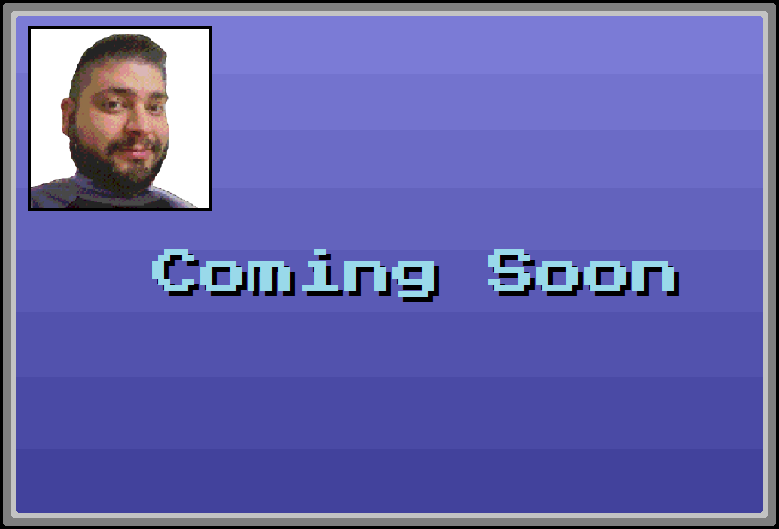
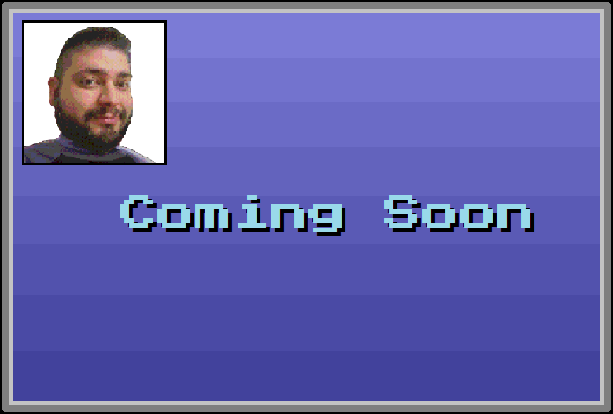
add several images and javascript code to show or hide images.

diff --git a/index.html b/index.html
@@ -11,8 +11,8 @@
 <body>
     <div id="page-container">
         <header>
-            <button type="button" class="menu" onclick="homefunction()">Home</button>
             <button type="button" class="menu" onclick="biofunction()">Bio</button>
+            <button type="button" class="menu" onclick="skillsfunction()">Skills</button>
             <button type="button" class="menu" onclick="projectsfunction()">Projects</button>
             <button type="button" class="menu">Resume</button>
         </header>
@@ -22,11 +22,16 @@
                     ― Stephen Hawking</h1>
         </main> 
             <div class="content">
-                <img src="assets/characterbio2.png" class="bio" id="bio" alt="character bio"/>
-                <img src="assets/projects2.png" class="projects" id="projects" alt="projects"/>
+                <img src="assets/bio.png" class="bio" id="bio" alt="character bio"/>
+                <img src="assets/skills.png" class="skills" id="skills" alt="skills"/>
+                <img src="assets/projects.png" class="projects" id="projects" alt="projects"/>
             </div> 
-        <img src="assets/avatartext1.png" class="fix" alt="character avatar"/>
-
+            <div class="avatars">
+                <img src="assets/avatar1.png" class="fix" id="avatar1" alt="character avatar"/>
+                <img src="assets/avatar2.png" class="fix2" id="avatar2" alt="character avatar"/>
+                <img src="assets/avatar3.png" class="fix2" id="avatar3" alt="character avatar"/>
+                <img src="assets/avatar4.png" class="fix2" id="avatar4" alt="character avatar"/>
+            </div>
         <footer>
             <p>&copy 2021 Nathan Lloyd</p>
         </footer> 

diff --git a/javascript/images.js b/javascript/images.js
@@ -1,14 +1,29 @@
-const homefunction = () => {
-    document.getElementById("bio").style.display ='none'
-    document.getElementById("projects").style.display ='none'
-}
-
 const biofunction = () => {
     document.getElementById("bio").style.display ='block'
+    document.getElementById("skills").style.display ='none'
     document.getElementById("projects").style.display ='none'
+    document.getElementById("avatar1").style.display ='none'
+    document.getElementById("avatar2").style.display ='block'
+    document.getElementById("avatar3").style.display ='none'
+    document.getElementById("avatar4").style.display ='none'
+}
+
+const skillsfunction = () => {
+    document.getElementById("skills").style.display ='block'
+    document.getElementById("bio").style.display ='none'
+    document.getElementById("projects").style.display ='none'
+    document.getElementById("avatar1").style.display ='none'
+    document.getElementById("avatar2").style.display ='none'
+    document.getElementById("avatar3").style.display ='block'
+    document.getElementById("avatar4").style.display ='none'
 }
 
 const projectsfunction = () => {
     document.getElementById("projects").style.display ='block'
     document.getElementById("bio").style.display ='none'
+    document.getElementById("skills").style.display ='none'
+    document.getElementById("avatar1").style.display ='none'
+    document.getElementById("avatar2").style.display ='none'
+    document.getElementById("avatar3").style.display ='none'
+    document.getElementById("avatar4").style.display ='block'
 }

diff --git a/styles.css b/styles.css
@@ -49,6 +49,14 @@ h1 {
     display: none;
 }
 
+.skills {
+    max-width: 330px;
+    margin-left: auto;
+    margin-right: auto;
+    border-radius: 5px;
+    display: none;
+}
+
 .projects {
     max-width: 330px;
     margin-left: auto;
@@ -71,9 +79,17 @@ h1 {
     max-height: 235px;
 }
 
+.fix2 {
+    position: fixed;
+    bottom: 0px;
+    left: 6px;
+    max-height: 235px;
+    display: none;
+}
+
 footer {
     color: whitesmoke;
-    background-color: darkslategrey;
+    background-color: black;
     position: fixed;
     bottom: 0;
     width: 100%;
@@ -121,11 +137,19 @@ p {
         max-width: 450px;
     }
 
+    .skills {
+        max-width: 450px;
+    }
+
     .projects {
         max-width: 450px;
     }
 
     .fix {
+        max-height: 320px;
+    }
+
+    .fix2 {
         max-height: 320px;
     }
 }
@@ -163,11 +187,20 @@ p {
         min-width: 38vw;
     }
 
+    .skills {
+        min-width: 38vw;
+    }
+
     .projects {
         min-width: 38vw;
     }
 
     .fix {
+        max-height: 350px;
+        margin-left: 2vw;
+    }
+
+    .fix2 {
         max-height: 350px;
         margin-left: 2vw;
     }
